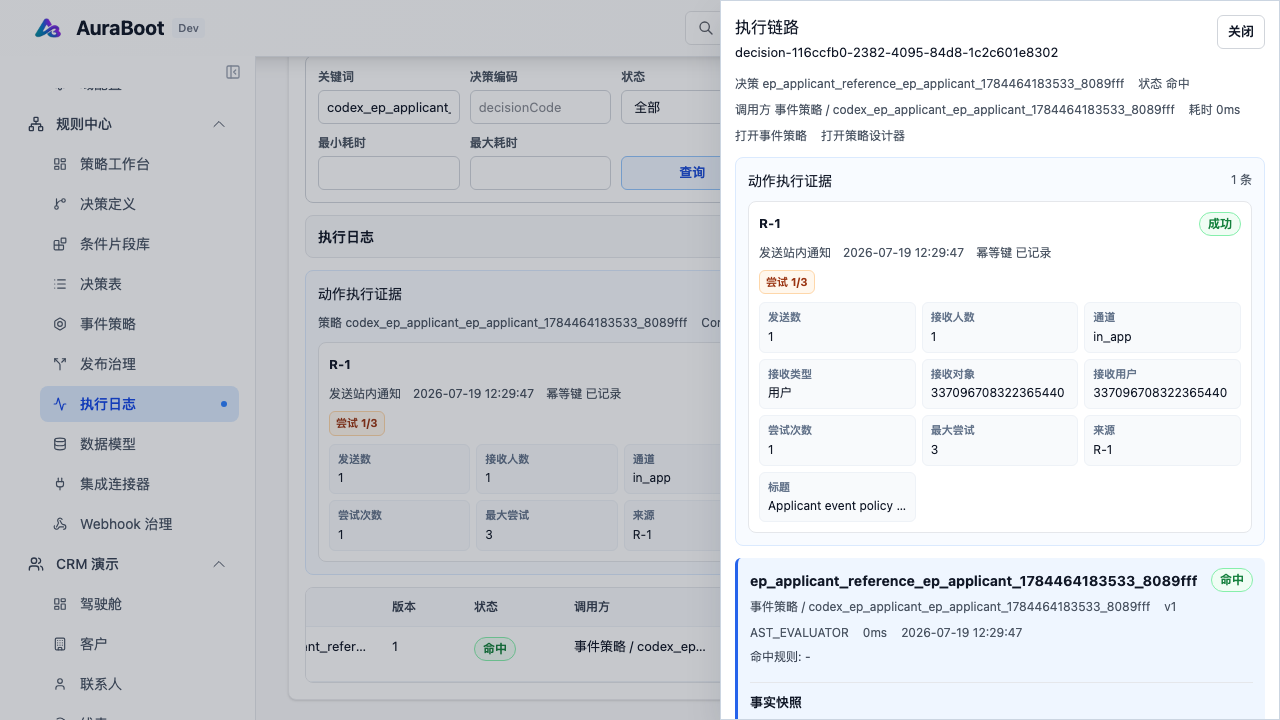
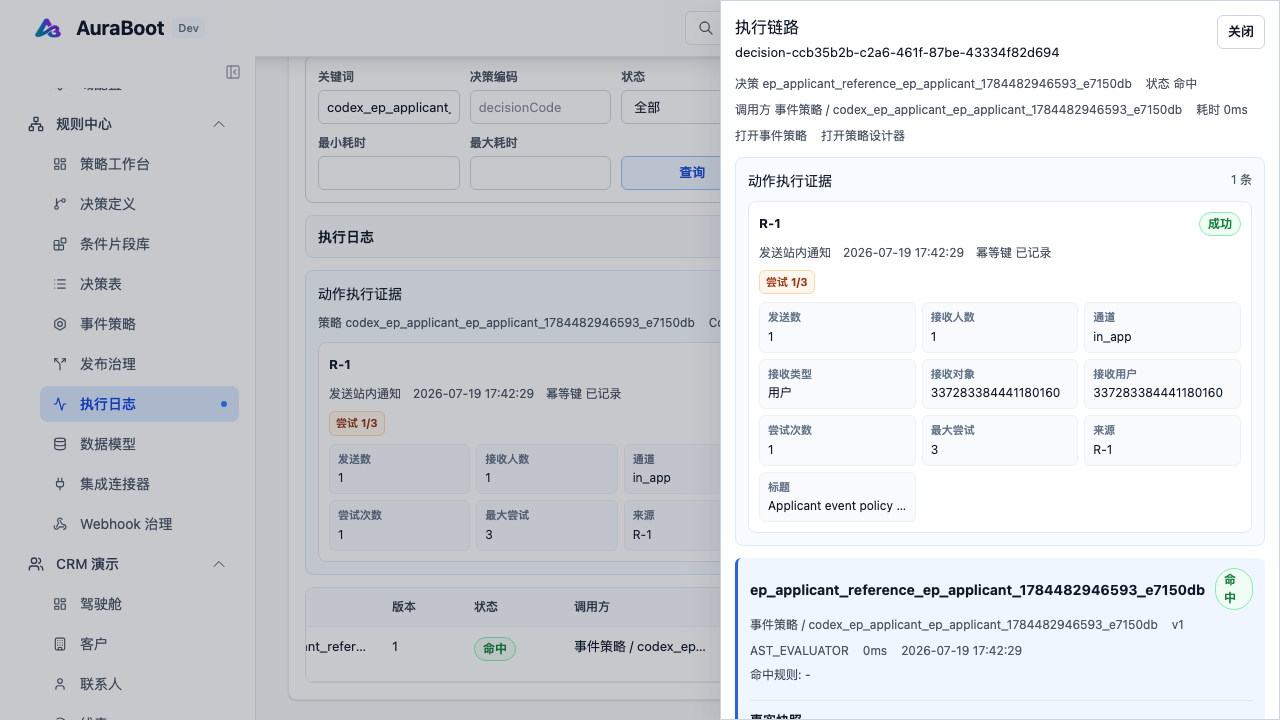
test(decisionops): stabilize automation menu navigation
Stabilize Automation sidebar navigation in the Rule Center binding designer E2E and record the fresh 54/54 core matrix validation.

diff --git a/web-admin/tests/e2e/automation/rule-binding-designer-host.spec.ts b/web-admin/tests/e2e/automation/rule-binding-designer-host.spec.ts
@@ -469,10 +469,7 @@ async function openAutomationListFromSidebar(page: Page): Promise<void> {
   await page.goto('/home', { waitUntil: 'domcontentloaded' });
   await ensureSidebarExpanded(page);
   const nav = page.locator('nav, aside, [role="navigation"]').first();
-  const link = nav
-    .locator('a[href="/automations"]')
-    .or(nav.getByRole('link', { name: /自动化|Automation/i }))
-    .first();
+  const link = nav.locator('a[href="/automations"]').first();
   const parent = nav
     .getByRole('button', { name: /系统管理|System Management|System|管理|Admin/i })
     .or(nav.getByRole('link', { name: /系统管理|System Management|System|管理|Admin/i }))
@@ -484,8 +481,13 @@ async function openAutomationListFromSidebar(page: Page): Promise<void> {
     });
   }
   await expect(link).toBeVisible({ timeout: 15_000 });
-  await link.click();
-  await expect(page).toHaveURL(/\/automations(?:$|[/?#])/, { timeout: 15_000 });
+  await expect(link).toHaveAttribute('href', '/automations');
+  await link.scrollIntoViewIfNeeded();
+  await expect(link).toBeInViewport({ timeout: 5_000 });
+  await Promise.all([
+    page.waitForURL(/\/automations(?:$|[/?#])/, { timeout: 15_000 }),
+    link.click(),
+  ]);
   await expect(page.locator('[data-testid="page-title"]').first()).toBeVisible({
     timeout: 15_000,
   });

diff --git a/docs/system-reference/rule-center-lowcode-model-integration-gap.md b/docs/system-reference/rule-center-lowcode-model-integration-gap.md
@@ -32,6 +32,8 @@ status: active
 
 2026-07-19 追加 `RC-UX-01` compact shell 侧栏 focused 证据：fresh runtime `rc-shell-sidebar-ux-111` (`Backend=6511`, `Vite=5211`, `BFF=6211`, `DB=auraboot_111`) 下把 `rule-center-main-entry-ux-smoke.spec.ts` 扩展为两条 chromium 用例，新增 632px 打开全局侧栏、断言 hamburger `aria-expanded`、移动端遮罩、侧栏进入视口、规则中心 9 个入口逐个可见/可滚动、点击“策略工作台”真实进入 `/decision-ops`，并断言页面无横向滚动；截图 `rule-center-shell-sidebar-compact-20260719.png`。产品代码同步补 `Header` 的 `aria-controls/aria-expanded/aria-label/data-testid`、`LeftSidebar#app-sidebar` 和移动遮罩 `data-testid`，让 shell 侧栏有稳定可测的 accessibility contract。该切片关闭“compact 下全局侧栏能否打开并发现规则中心入口”的 focused gap；仍不等价于所有浮层、所有就地编辑任务或所有宽度档 shell 回归清零。
 
[phone redacted] 追加 fresh main 核心浏览器矩阵补测：用户恢复测试后，在最新 `main@dc5babd29` 上新起 `rc-endgame-main-112` fresh runtime（`Backend=6512`, `Vite=5212`, `BFF=6212`, `DB=auraboot_112`, demo plugin import OK, warm OK），一次性串行跑规则中心核心矩阵 9 个 spec / 54 条 chromium 用例。首轮结果 `53 passed / 1 failed`，唯一红灯是 `automation/rule-binding-designer-host.spec.ts` 的 Automation 菜单入口 helper：页面里 `/automations` 菜单链接真实存在，但 helper 使用 `a[href="/automations"].or(getByRole("自动化")).first()`，DOM 顺序/滚动状态变化时可能没有点击精确 href 链接，导致 URL 停在 `/home`。本轮修复为只定位 `nav a[href="/automations"]`，显式 `scrollIntoViewIfNeeded()`，并用 `page.waitForURL(/\/automations/)` 包住真实菜单点击；没有用 `page.goto('/automations')` 兜底。随后 targeted 用例 1/1 passed、Automation full 4/4 passed，最后同一 fresh runtime 上核心矩阵重跑 `54 passed (5.9m)`。e2e-truth 静态扫描未命中 skip/fixme/only、waitForTimeout、retries 或业务页面直达；唯一 PUT 命中是 `model-publish-governance.spec.ts` 的 `putApi` setup helper，用于准备真实 RolePermission policy 夹具，不替代模型发布治理 UI、replay 报告或 Trace 链路。试图删除该 helper 时，`tsc` 和 model governance 立即红灯，复原后 `tsc` passed、model governance 3/3 passed。本轮刷新截图 `event-policy-applicant-reference-trace-fact-metadata-20260719.png` 与 `permission-applicant-reference-trace-fact-metadata-20260719.png`，均显示中文 Trace 抽屉里的申请人 fact metadata。该结果证明当前核心浏览器矩阵在 fresh runtime 上是绿的，但仍不把规则资产/消费方详情/执行日志三处 Trace 全矩阵、真实外部 provider live matrix、Permission 更广失败态或全部 UX 浮层/就地编辑矩阵伪装成完成。
+
 | 项目 | 本轮结论 | 证据 |
 |---|---|---|
 | 低码 reference 字段元数据 | `FieldDefinition.RefTarget` 补齐 `targetTable / valueField / targetField`，`MetaModelServiceImpl` 回传 canonical refTarget；`DynamicDataServiceImpl.getFieldOptions` 优先读取 canonical refTarget，兼容 `extraProps/extension.refTarget`，业务引用字段的下拉 option 来自真实目标模型和目标表 | 后端集成 `DecisionRuntimeIntegrationTest.evaluate_persistsFactMetadataSnapshotForBusinessReferenceModelFields` passed；浏览器 golden 会先创建 supplier/ticket 两个低码模型并调用 `/api/dynamic/<ticket>/field-options/<supplierRef>` 验证 option label/value |
@@ -142,7 +144,7 @@ status: active
 | 动作目录和外部 provider | 消息、短信、IM、任务、抄送、Webhook、流程、记录、评论、审计是否通过统一 action catalog 扩展 | 必须支持的动作能力、Gap 11、Gap 20、Slice 4 | 动作扩展已开始；SLA 与 EventPolicy 已有多条 focused success/failure 证据，EventPolicy `SEND_IM` success 已证明 action catalog → handler → IM bot message → Trace，EventPolicy `CREATE_TASK` success 已证明 action catalog → handler → inbox task → Trace，EventPolicy `CC_TASK` success 已证明 action catalog → handler → inbox mention → Trace；2026-07-16 已补 action catalog `availabilityStatus/availabilityReason/consumerTypes` API 合同、SLA/EventPolicy 组件消费和 focused browser golden；Automation Designer focused browser 也已消费 SEND_SMS availability，覆盖组件库状态、画布 badge、属性面板 warning 和中文 fallback；2026-07-17 又补 `consumerAvailability` per-consumer matrix 合同，SLA Action Plan、EventPolicy Designer、Automation node mapping 和 BPM ServiceTask 属性面板都按各自 consumer 优先读取，SLA 页面 DSL 显式传入 `consumerType=SLA`；同日补 `providerDependencies` 结构化合同和全动作 provider type matrix，`SEND_SMS` 从 `SmsSenderRouter.realSenderAvailability()` 返回真实短信 provider 的 providerCodes/status/reason，`NOTIFY/SEND_IM/CREATE_TASK/CC_TASK/WEBHOOK/START_PROCESS/ADD_COMMENT/UPDATE_RECORD/PATCH_RECORD/WRITE_AUDIT` 也声明各自 `NOTIFICATION/IM/INBOX/BPM/WEBHOOK/COMMENT/LOWCODE_MODEL/AUDIT` 依赖，并随 action 顶层和每个 consumerAvailability 行输出；前端共享 `resolveDecisionActionAvailability` 后，SLA Action Plan、EventPolicy Designer、Automation FlowPropertyPanel 和 BPM ServiceTask 均可读取 provider 依赖短明细；同日再补 BPM serviceTask 运行态 provider failure focused slice，结构化 result payload 不再只停留在 EventPolicy Trace，而能被 BPM 流程变量和 `_action_*` 结果变量保留；同日又补 BPM serviceTask action success trace，成功动作不再只存 `_action_*` 流程变量，而会写入 `action_executed` execution log 并在 ProcessStatus 展示动作成功与 IM payload 证据。短信 live provider、真实外部 provider availability/failure 注入全矩阵、更多 BPM action runtime failure、失败策略、幂等和 Trace 仍未统一完成 |
 | Trace / Audit / Impact | 如何证明 UI 配置真的被后端执行，并能从规则资产、消费方、执行日志互跳 | 端到端链路总图、Trace / Audit / Impact、Gap 15/16、RC-TRACE-01 | SLA action-log → DecisionOps linked action evidence focused slice 已有浏览器证据；SLA Rule Binding 测试运行结果 → DecisionOps execution log 资产侧 Trace link focused slice 已有真实 SLA 配置页浏览器证据；2026-07-17 又补 SLA Rule Binding test-run `callerRef=<配置 pid>` 与 DecisionOps Trace 抽屉“打开 SLA 配置”反向入口，证明同一执行日志能回到消费方详情页；2026-07-19 又补 SLA 申请人规则从原生配置页选择/保存/测试运行到 DecisionOps Trace fact metadata 的完整 focused browser 证据，抽屉链路可见 `SLA / callerRef` 且能回到 SLA 配置详情；Automation test run → DecisionOps unified Trace → Automation designer 反向入口 focused slice 已有浏览器证据，证明规则绑定测试结果可从 Automation 结果面板进入统一执行日志，再从 Trace 抽屉回到 `/automation/<pid>`；EventPolicy run → DecisionOps linked action evidence focused slice 已有浏览器/DB 证据；2026-07-17 又补 EventPolicy execution log / direct linked action evidence “打开事件策略 / 打开策略设计器”反向入口，证明同一 policyCode/correlationId 的动作证据能回到事件策略详情和设计器；EventPolicy retry/replay/dead-letter → DecisionOps linked action evidence focused slice 已有浏览器/DB 证据；EventPolicy multi-action Webhook → DecisionOps linked action evidence focused slice 已有浏览器/DB/Webhook delivery 证据；EventPolicy Webhook eventId validation → DecisionOps linked action evidence focused slice 已有浏览器/DB 证据；EventPolicy `SEND_IM` → IM bot message → DecisionOps linked action evidence focused slice 已有浏览器/DB/IM API 证据；EventPolicy `CREATE_TASK` → inbox task → DecisionOps linked action evidence focused slice 已有浏览器/DB/Inbox API 证据；EventPolicy `CC_TASK` → inbox mention → DecisionOps linked action evidence focused slice 已有浏览器/DB/Inbox API 证据，并完成 Trace action payload 中文标签产品化；EventPolicy `ROLE:empty_role` target-resolution failure → DecisionOps linked action evidence focused slice 已有浏览器/DB/Trace 证据；DecisionOps execution-log → DMN `outputSnapshot` Trace drawer focused slice 已有浏览器/DB 证据，本轮追加 `traceSnapshot.outputMetadata` 后输出列可显示 per-run label/valueLabels；DecisionOps execution-log → virtual-source `traceSnapshot` focused slice 已有后端持久化、API 映射、shared viewer、DecisionOps console 和 smart block Trace UI 证据；Permission audit → 字段治理 `fieldGovernance` focused slice 已有后端 DENY details、组件证据和浏览器截图；Permission audit ↔ DecisionOps execution log 同 traceId 双向互跳 focused slice 已有组件、后端 trace 查询和浏览器证据；Permission audit 后端 trace 查询已兼容历史 nested `ruleCenterFailures[].ruleTraceId`，避免旧 DENY 审计无法从 traceId 回查；模型发布 Permission replay 报告已能把后端权限规则执行产生的 `ruleTraceId` 作为统一 Trace 链接打开 DecisionOps execution log；BPM 流程状态页 Rule Trace 已补 fail-closed 中文业务化展示和 raw error 隐藏的组件证据，后端 execution timeline payload 已补 focused 断言，真实运行态浏览器 focused spec 已证明 fail-closed 不回退静态审批人且流程状态页可截图回看；2026-07-17 又补 BPM serviceTask action success ProcessStatus trace，显示“发送 IM 消息 / 动作成功 / 流程已继续推进 / 通道=IM / 发送数量=1”，并隐藏 raw `SEND_IM`、`SUCCESS`、`provider_unavailable`；本轮追加 BPM userTask applicant Rule Trace 从流程状态页打开 DecisionOps，再从 Trace 反链流程状态；其它规则资产、消费方详情、执行日志三处全量 Trace 矩阵和模型变更 impact 未清零 |
 | 模型变更治理 | 字段删除、改型、删字典、权限变化、虚拟源变化前如何影响分析、迁移或阻断 | Gap 8/15、Slice 6、RC-MODEL-01 | `PARTIAL+`：DecisionOps field-impact preflight 已有删字典值、数据类型变化、权限变化、虚拟源变化的 API/UI/ack 浏览器证据；模型详情发布治理弹窗、强制确认、迁移计划、历史版本策略展示、结构化发布后复核计划和 replay report API/UI 已有 service/API + browser golden；`DECISION_VERSION` 已能在 `sampleContext` 下调用真实 `DecisionEvaluationService.evaluate`，`EVENT_POLICY` 已能基于 usage metadata + `sampleContext` 调用真实 EventPolicy runtime，`AUTOMATION` 已能基于 `sampleContext.record.pid` 调用真实 Automation 手动触发服务；`SLA_RULE` RECORD-level 已能基于 `sampleContext.record.pid` 激活真实 SLA record，BPM NODE 已能基于 `sampleContext.bpm.processInstanceId/tenantId/taskId` 走真实 `SlaActivationListener.onBpmEvent` 后端 replay；SLA BPM NODE replay 浏览器 report、无效样本 inline 校验和 timeout action policy 摘要已补 focused 证据；`BPM_PROCESS` 已能基于 BPM designer 连线 `conditionSpec`、`sampleContext.bpm.processInstanceId/processKey` 和 record data 执行发布后 replay，浏览器报告显示 BPM 规则复核命中/条件满足；BPM userTask assignment 已能基于 node `ruleBinding` 和 Decision outputs 解析候选审批人/审批组，浏览器报告显示 `candidateUserIds/candidateGroupIds` 的中文化结果；BPM userTask decision error 已能 fail-closed，报告中文显示“已失败关闭、未使用静态审批人兜底”且隐藏 raw error code；`PERMISSION_POLICY` 已能基于 `sampleContext.permission.memberId` 和 record data 调真实 `PermissionEvaluator.canOperate`，并已有 Permission replay sampleContext allow/deny live browser 证据；本轮又补 Permission replay 字段 masked/字段权限变化 metadata/resultMap/API/UI report focused 证据，并追加 Permission replay `ruleTraceId` → DecisionOps unified Trace focused link；BPM 更多节点/统一 Trace、Permission replay 更广权限失败态/跨消费方回放矩阵、Automation/EventPolicy 浏览器/live/provider failure 广度和完整模型生命周期治理未闭环 |
-| 测试和交付纪律 | 为什么之前测试会误判，如何防止旧端口/旧 artifact/组件测试假完成 | 交付与环境纪律、本轮试错路径复盘、Gap 9/13/19、RC-RUNTIME-01 | 已建立文档纪律，后续每个 DONE 仍需五层证据 |
+| 测试和交付纪律 | 为什么之前测试会误判，如何防止旧端口/旧 artifact/组件测试假完成 | 交付与环境纪律、本轮试错路径复盘、Gap 9/13/19、RC-RUNTIME-01 | 已建立文档纪律，后续每个 DONE 仍需五层证据；2026-07-19 在 fresh `rc-endgame-main-112` 上先跑出核心浏览器矩阵 `53 passed / 1 failed`，定位唯一红灯为 Automation 菜单入口 helper 命中不稳定，不是 seed 或产品链路整体失败；收紧为精确 `/automations` href 菜单点击后 targeted 1/1、Automation 4/4、核心矩阵 54/54 passed |
 
 如果某次后续汇报无法映射到这张表里的至少一行，它不能关闭规则中心 endgame gap；如果某一行状态变化，必须同步更新“当前最高结论”“当前剩余 Gap 快速索引”“全量验收矩阵”和状态文档。
 